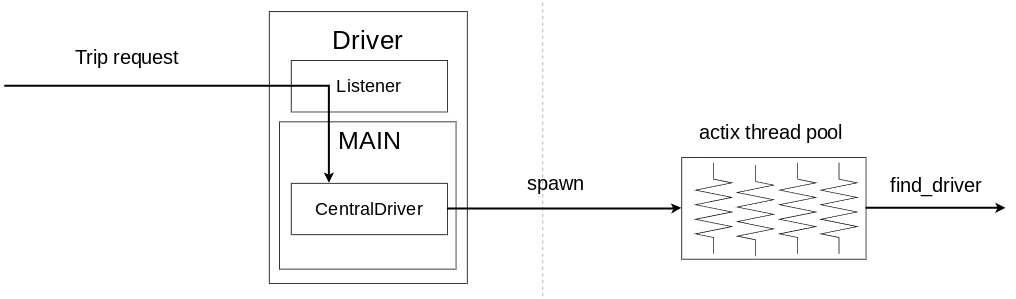
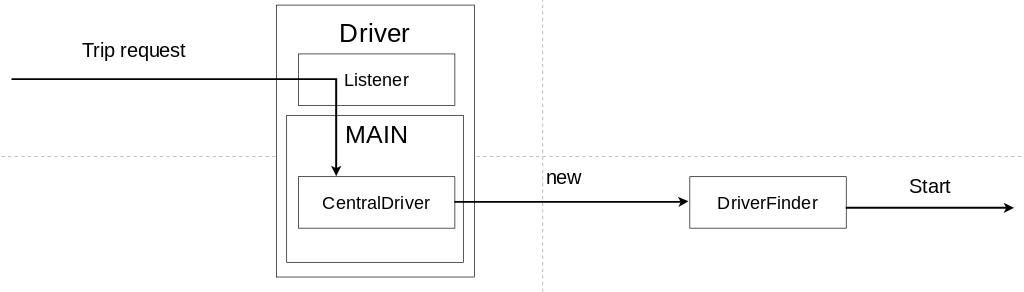
docs: update docs

diff --git a/README.md b/README.md
@@ -32,6 +32,8 @@ Dentro del proceso Driver encontramos los actores:
 
 -   DriverConnection: Se responsabiliza de las comunicaciones mediante sockets con los demas Drivers, hay una instancia de este actor por cada Driver que exista.
 
+-   DriverFinder: Se responsabiliza de filtrar, ordenar y consultar a los drivers mas cercanos si quieren tomar el viaje.
+
 -   PassengerConnection: Se responsabiliza de las comunicaciones mediante sockets con un Passenger
 
 -   PaymentConnection: Se responsabiliza de las comunicaciones mediante sockets con el servicio de Payment
@@ -40,20 +42,22 @@ Estructura del Central Driver:
 
 ```Rust
 pub struct CentralDriver {
-    // Direccion del actor TripHandler
+    /// Direccion del actor TripHandler
     trip_handler: Addr<TripHandler>,
-    // Direccion del actor PassengerConnection
-    passengers: Arc<Mutex<HashMap<u32, Addr<PassengerConnection>>>>,
-    // Direcciones de los drivers segun su id
+    /// Direccion del actor PassengerConnection
+    passengers: HashMap<u32, Addr<PassengerConnection>>,
+    /// Direcciones de los buscadores de drivers segun la id del pasajero
+    driver_finders: HashMap<u32, Addr<DriverFinder>>,
+    /// Direcciones de los drivers segun su id
     connection_with_drivers: HashMap<u32, Addr<DriverConnection>>, // 0...N
-    // Posiciones de los demas drivers segun su id,
-    // cobra sentido si este driver es lider
+    /// Posiciones de los demas drivers segun su id,
+    /// cobra sentido si este driver es lider
     driver_positions: HashMap<u32, Position>,
-    // Id del driver lider
+    /// Id del driver lider
     leader_id: Option<u32>,
-    // Id del driver
+    /// Id del driver
     id: u32,
-    // Timeout de la eleccion
+    /// Timeout de la eleccion
     election_timeout: Option<SpawnHandle>,
 }
 
@@ -150,6 +154,15 @@ pub struct CanHandleTrip {
     pub passenger_id: u32,
     pub source: Position,
     pub destination: Position,
+    pub driver_id: u32,
+}
+
+#[derive(Message)]
+#[rtype(result = "()")]
+pub struct CanHandleTripACK {
+    pub passenger_id: u32,
+    pub response: bool,
+    pub driver_id: u32,
 }
 
 #[derive(Message)]
@@ -165,18 +178,25 @@ pub struct SendTripResponse {
     pub detail: String,
     pub passenger_id: u32,
 }
+
+#[derive(Message)]
+#[rtype(result = "()")]
+pub struct RemoveDriverFinder {
+    /// Id del pasajero
+    pub passenger_id: u32,
+}
 ```
 
 ```Rust
 pub struct TripHandler {
-    // Direccion del actor CentralDriver
+    /// Direccion del actor CentralDriver
     central_driver: Addr<CentralDriver>,
-    // Posicion actual del driver
-    current_location: Arc<Mutex<Position>>,
-    // Id del pasajero actual
+    /// Posicion actual del driver
+    current_location: Option<Position>,
+    /// Id del pasajero actual
     passenger_id: Option<u32>,
-    // Tarea del viaje
-    trip_task: Option<SpawnHandle>,
+    // Variable de entorno 'TEST' para simplificar casos de interes a la hora de testear
+    test_env_var: Result<String, std::env::VarError>,
 }
 
 impl Actor for TripHandler {
@@ -185,18 +205,29 @@ impl Actor for TripHandler {
 
 #[derive(Message)]
 #[rtype(result = "()")]
-struct TripStart {
+struct GoTo {
+    /// Posicion actual del driver
+    current_position: Position,
+    /// Posicion destino siguiente
+    next_position: Position,
+    /// Id del pasajero
     passenger_id: u32,
+    /// Posicion inicial del pasajero
     passenger_location: Position,
+    /// Posicion destino del pasajero
     destination: Position,
 }
 
 #[derive(Message)]
-#[rtype(result = "bool")]
+#[rtype(result = "()")]
 pub struct CanHandleTrip {
+    /// Id del pasajero
     pub passenger_id: u32,
+    /// Posicion inicial del pasajero
     pub passenger_location: Position,
+    /// Posicion destino del pasajero
     pub destination: Position,
+    /// Id de este driver
     pub self_id: u32,
 }
 
@@ -210,15 +241,19 @@ pub struct ClearPassenger {
 #[derive(Message)]
 #[rtype(result = "()")]
 pub struct ForceNotifyPosition {}
+
+#[derive(Message)]
+#[rtype(result = "()")]
+struct NotifyPosition {}
 ```
 
 ```Rust
 pub struct PassengerConnection {
-    // Direccion del actor CentralDriver
+    /// Direccion del actor CentralDriver
     central_driver: Addr<CentralDriver>,
-    // Stream para enviar al passenger
-    passenger_write_stream: Arc<Mutex<WriteHalf<TcpStream>>>,
-    // ID del pasajero
+    /// Stream para enviar al passenger
+    passenger_write_stream: Option<WriteHalf<TcpStream>>,
+    /// ID del pasajero
     passenger_id: u32,
 }
 
@@ -244,7 +279,7 @@ pub struct PaymentConnection {
     // Direccion del actor CentralDriver
     central_driver: Addr<CentralDriver>,
     // Stream para enviar al payment
-    payment_write_stream: Arc<Mutex<WriteHalf<TcpStream>>>,
+    payment_write_stream: Option<WriteHalf<TcpStream>>,
 }
 
 impl Actor for PaymentConnection {
@@ -266,14 +301,12 @@ pub struct RecvAll {
 
 ```Rust
 pub struct DriverConnection {
-    // Direccion del actor CentralDriver
+    /// Direccion del actor CentralDriver
     central_driver: Addr<CentralDriver>,
-    // Stream para enviar al driver
-    driver_write_stream: Arc<Mutex<WriteHalf<TcpStream>>>,
-    // ID del driver
+    /// Stream para enviar al driver
+    driver_write_stream: Option<WriteHalf<TcpStream>>,
+    /// ID del driver
     driver_id: u32,
-    //Guarda el ack recibido para cada pasajero
-    responses: HashMap<u32, Option<bool>>,
 }
 
 impl Actor for DriverConnection {
@@ -291,11 +324,49 @@ pub struct SendAll {
 pub struct RecvAll {
     pub data: String,
 }
+```
+
+```rust
+pub struct DriverFinder {
+    /// Direccion del actor CentralDriver
+    central_driver: Addr<CentralDriver>,
+    /// Timeout para la recepcion de confirmacion de un driver
+    driver_ack_timeout: Option<SpawnHandle>,
+    /// Id del pasajero
+    passenger_id: Option<u32>,
+    /// Posicion inicial del pasajero
+    source: Position,
+    /// Posicion destino del pasajero
+    destination: Position,
+    /// Conductores cercanos a la posicion inicial del pasajero
+    nearby_drivers: VecDeque<u32>,
+}
+
+impl Actor for DriverFinder {
+    type Context = Context<Self>;
+}
 
 #[derive(Message)]
-#[rtype(result = "Option<bool>")]
-pub struct CheckACK {
-    pub passenger_id: u32,
+#[rtype(result = "()")]
+struct AskDrivers {
+    /// Id del conductor previamente consultado
+    previous_driver: Option<u32>,
+}
+
+#[derive(Message)]
+#[rtype(result = "()")]
+pub struct DriverACK {
+    /// Id del conductor que envia el ACK
+    pub driver_id: u32,
+    /// Valor del ACK
+    pub response: bool,
+}
+
+#[derive(Message)]
+#[rtype(result = "()")]
+struct NoDrivers {
+    /// Id del pasajero
+    passenger_id: u32,
 }
 ```
 
@@ -407,6 +478,7 @@ pub enum TripMessages {
         status: TripStatus,
         detail: String,
     },
+    Listening {},
 }
 ```
 
@@ -435,12 +507,14 @@ pub enum DriverMessages {
     },
     CanHandleTrip {
         passenger_id: u32,
+        driver_id: u32,
         passenger_location: Position,
         destination: Position,
     },
     CanHandleTripACK {
         response: bool,
         passenger_id: u32,
+        driver_id: u32,
     },
 }
 ```
@@ -451,9 +525,11 @@ pub enum DriverMessages {
 
 ![driver_threads](assets/driver_threads.png)
 
+![driver_finder](assets/driver_finder.png)
+
 Cada driver va a tener una tarea async 'listener' la cual va a ser responsable de handlear nuevas conexiones con drivers o pasajeros.
 En ambas conexiones, se espera que primero se identifiquen con su id y tipo ('P' (passenger) o 'D' (driver)), en caso de que sea un passenger, se esperara ademas la request del viaje, la cual se enviara al CentralDriver mediante el mensaje 'RedirectNewTrip'.
-En el CentralDriver, si el driver es el driver lider, se notifica el mensaje 'FindDriver' con el cual lanza una nueva tarea async en el contexto del actor encargada de buscar un conductor para el pasajero. En caso de que el driver no sea el lider, le reenvia la request al lider mediante un socket TCP.
+En el CentralDriver, si el driver es el driver lider, se notifica el mensaje 'FindDriver' con el cual crea un nuevo actor 'DriverFinder' y lo inicia, encargada de buscar un conductor para el pasajero. En caso de que el driver no sea el lider, le reenvia la request al lider mediante un socket TCP.
 
 # Cambios post diseño
 
@@ -478,9 +554,9 @@ En cuanto al pasajero, notamos que el flujo de la aplicacion era mas bien secuen
 Al momento de seleccionar un driver, no se elige directamente al que mas cerca esta. En orden ascendente de distancia al pasajero, se le consulta a cada driver uno por uno si tomara el viaje, en caso positivo, el driver se comunica con el pasajero
 y le avisa que esta en camino, en caso negativo, se le pregunta al proximo driver mas cercano.
 
-### Tarea de seleccion de driver
+### Actor de seleccion de driver
 
-Por los cambios anteriormente mencionados, se cambio la forma en la que se ejecuta la 'seleccion' (ya que no se elige, si no que se busca y consulta) del driver. Al llegar una request, se envia el mensaje "FindDriver" al CentralDriver, el cual, si es el lider (en caso contrario, ignorara el mensaje con un early return), lanzara una tarea async en el contexto del actor encargada de filtrar, ordenar y consultar a los drivers mas cercanos si quieren tomar el viaje.
+Por los cambios anteriormente mencionados, se cambio la forma en la que se ejecuta la 'seleccion' (ya que no se elige, si no que se busca y consulta) del driver. Al llegar una request, se envia el mensaje "FindDriver" al CentralDriver, el cual, si es el lider (en caso contrario, ignorara el mensaje con un early return), creara un actor 'DriverFinder' encargado de filtrar, ordenar y consultar a los drivers mas cercanos si quieren tomar el viaje.
 
 ### Envio de posicion del driver
 
